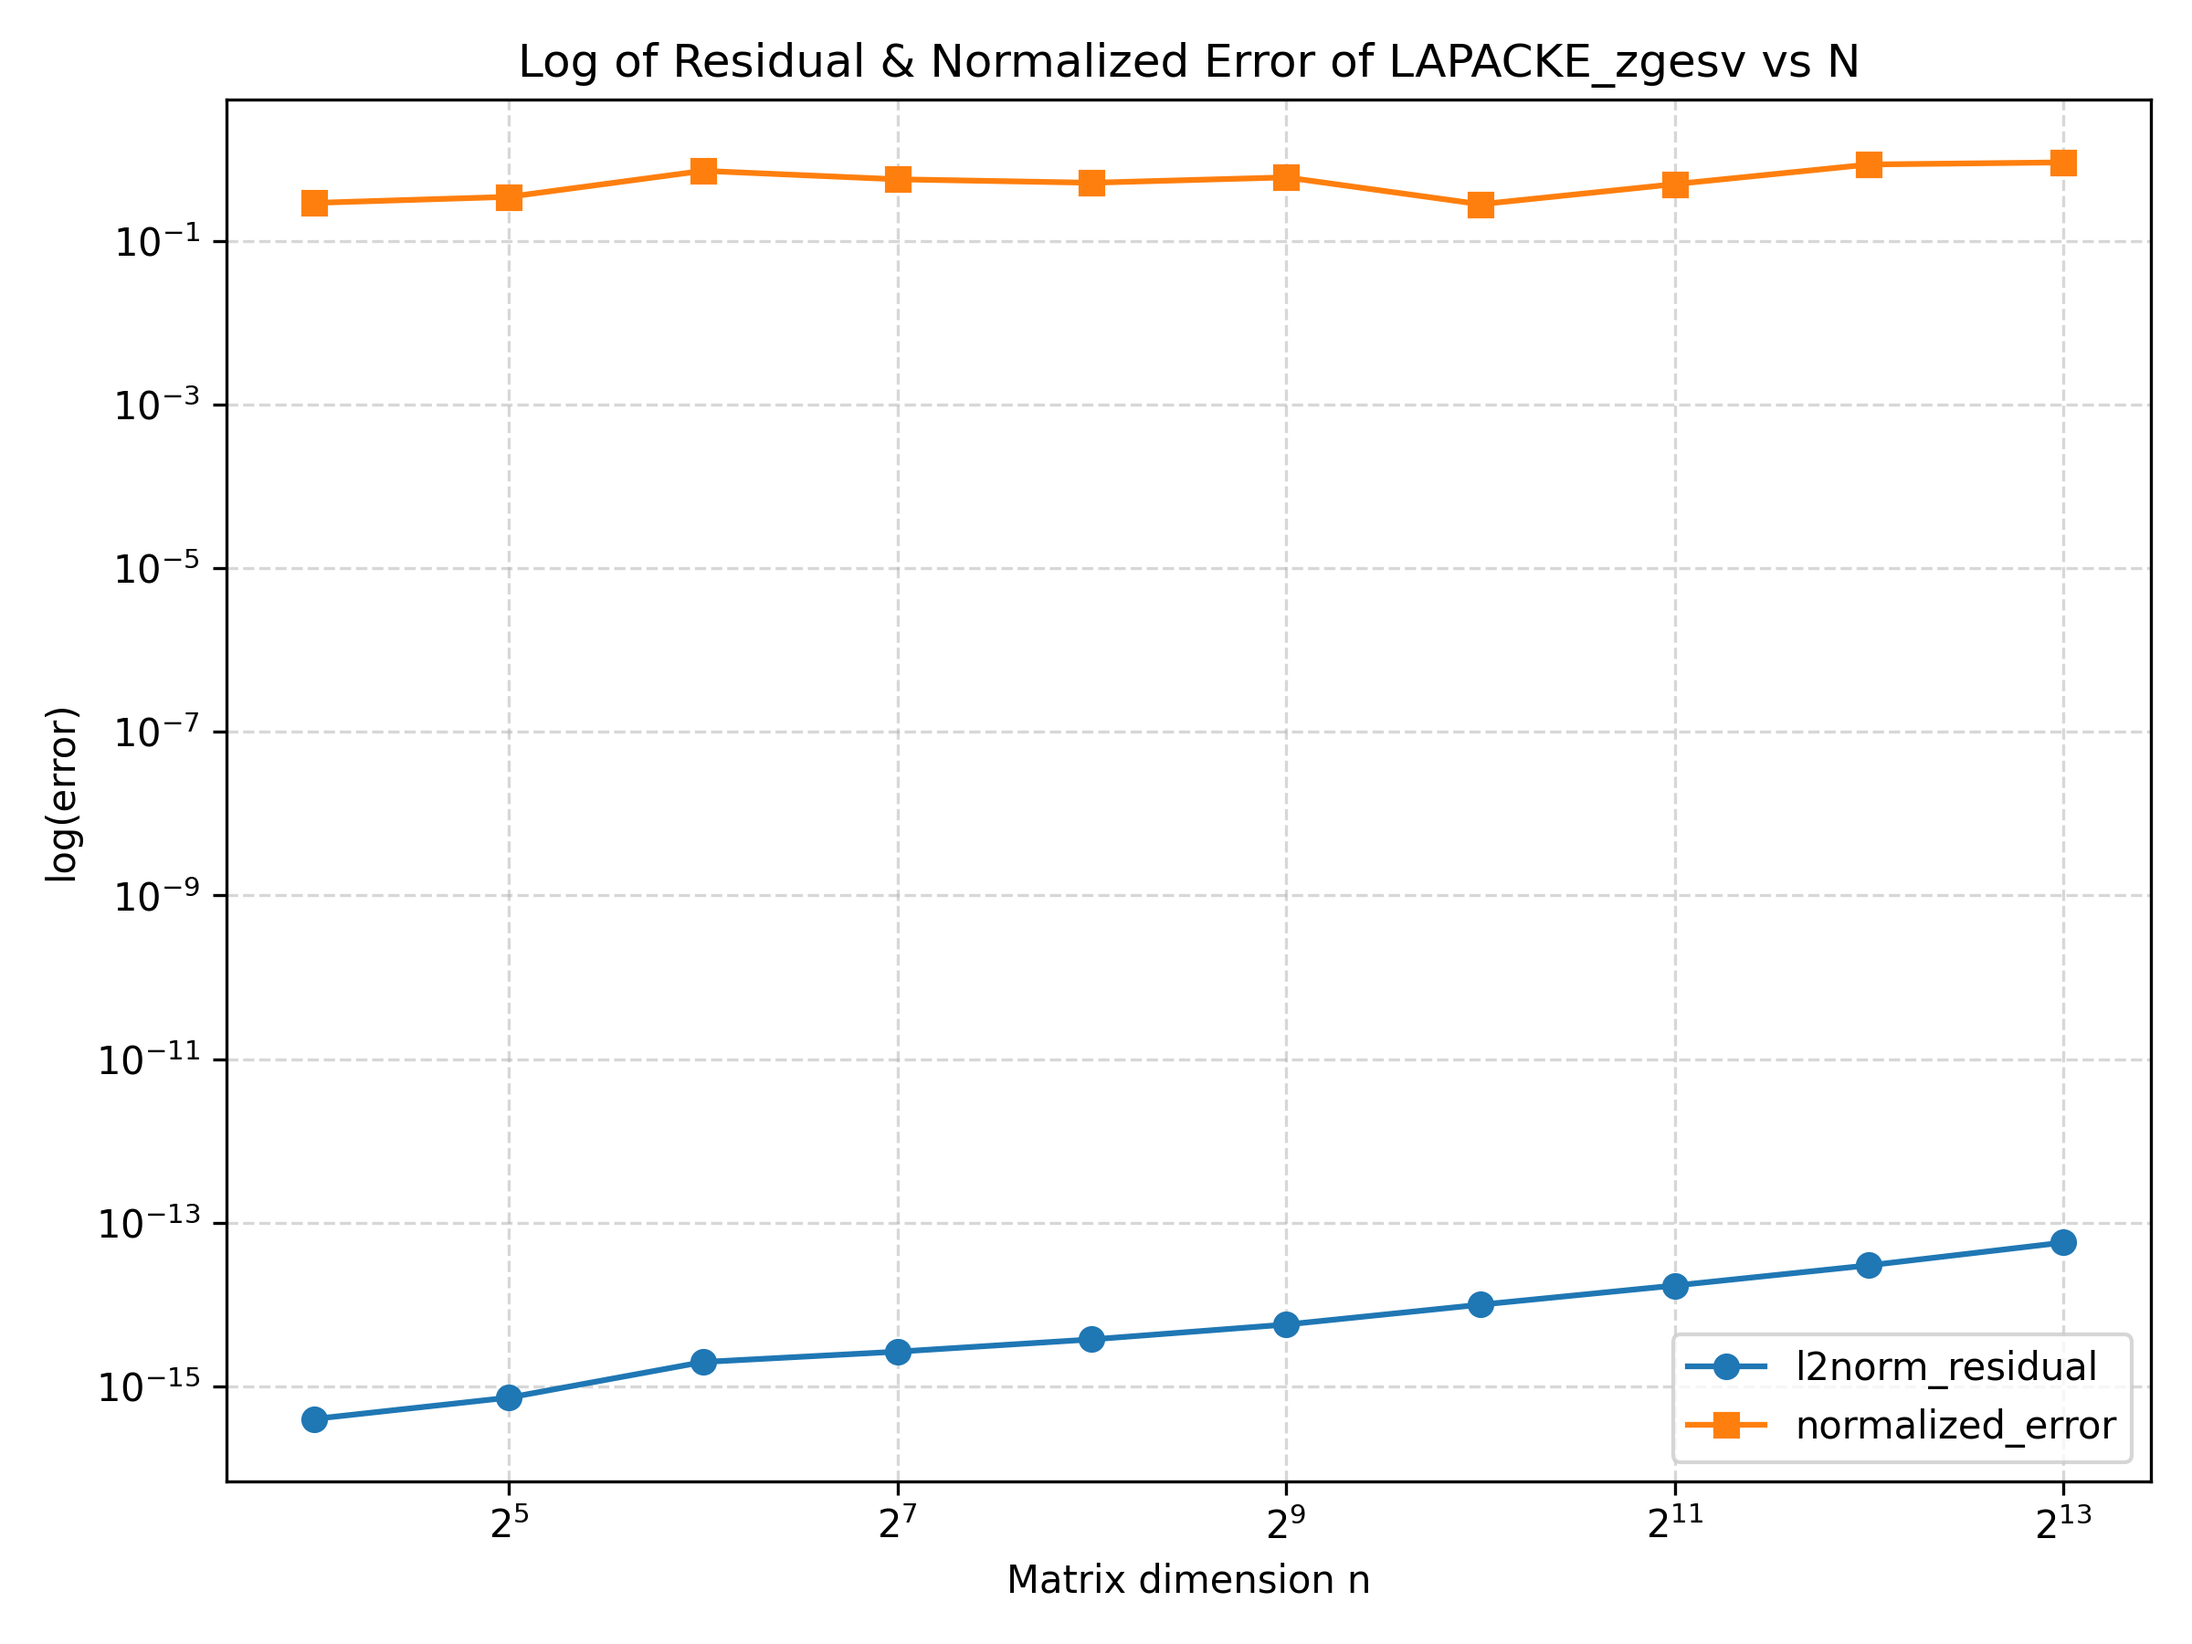
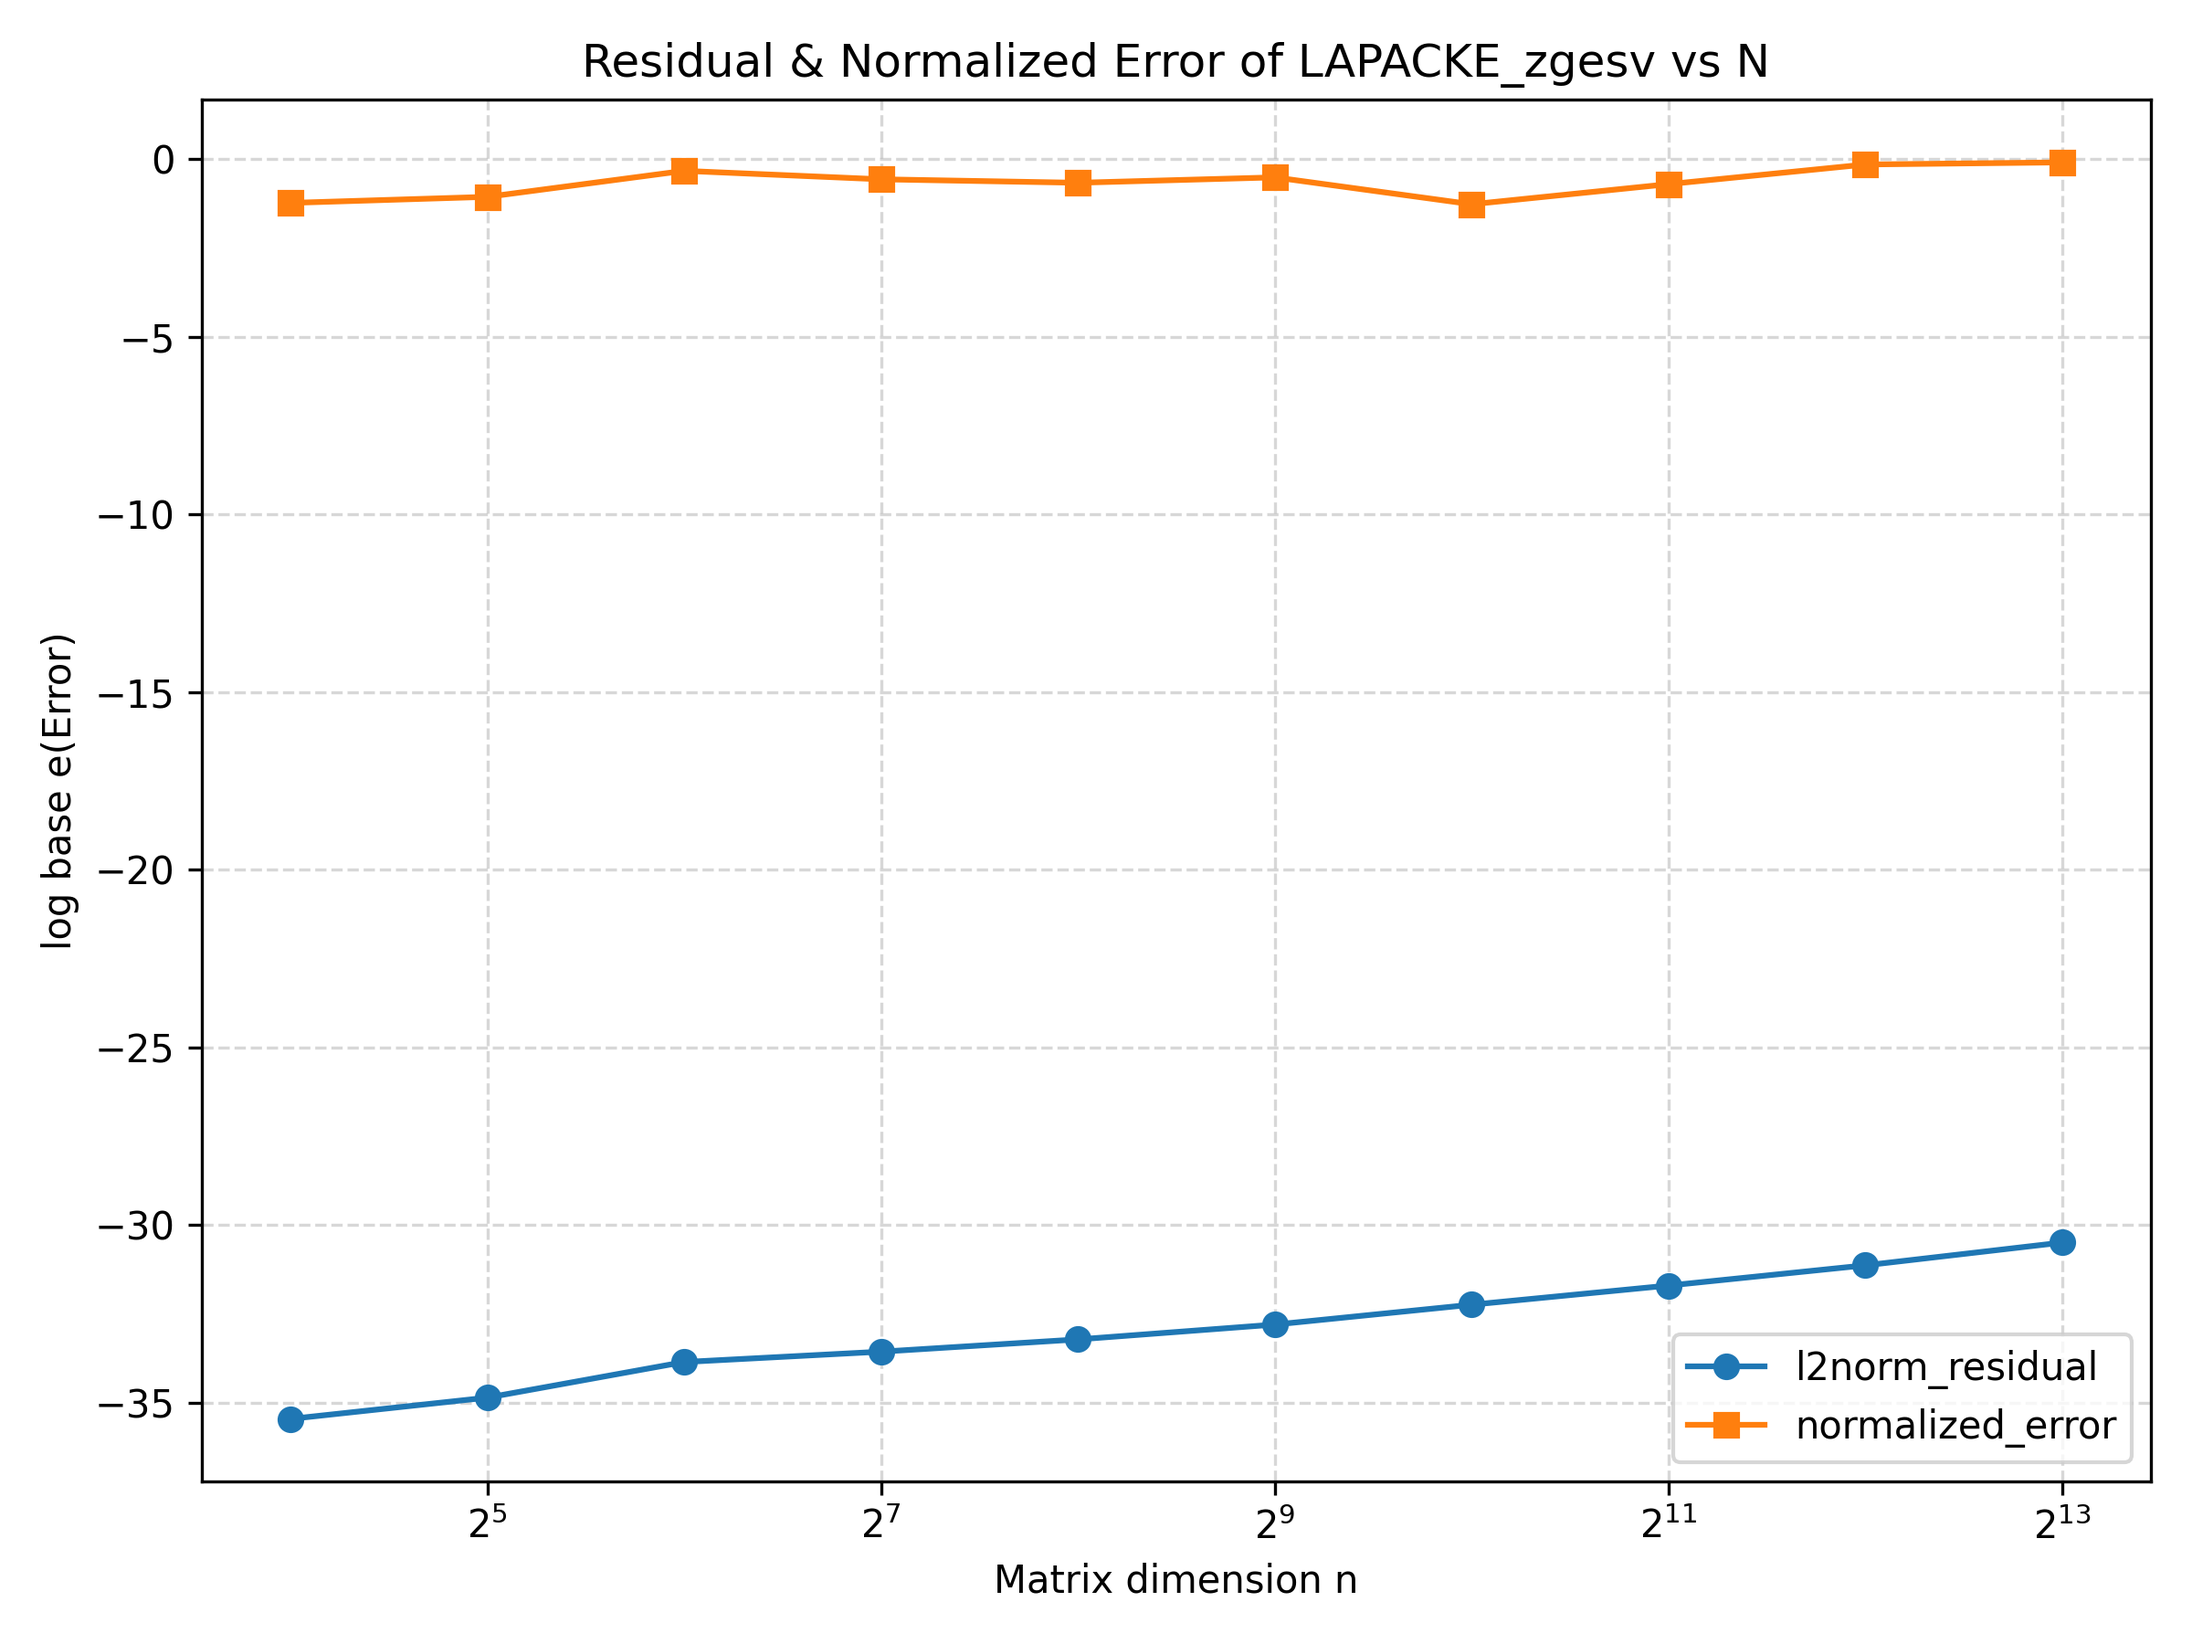
Changed Problem 3 for adjusting to base 10 plot

diff --git a/HW/HW7/Problem 3/p3.cpp b/HW/HW7/Problem 3/p3.cpp
@@ -42,7 +42,7 @@ int main() {
         size_t size = size_t(n) * n;
         size_t bytes = size * sizeof(double);
 
-        std::vector<double> A(size), B(size), C(size, 0.0);
+        std::vector<double> A(size, 1.0), B(size, 1.0), C(size, 0.0);
         for (size_t i = 0; i < size; ++i) {
             A[i] = drand48();
             B[i] = drand48();
@@ -74,17 +74,17 @@ int main() {
         }
         auto t1 = std::chrono::high_resolution_clock::now();
         double elapsed_cpu = std::chrono::duration<double>(t1 - t0).count() / ntrial;
-        double gflops_cpu = (2.0 * double(n)*n*n) / (elapsed_cpu * 1e9);
+        double gflops_cpu = (2.0 * double(n)*n*n + 2.0 * double(n)*n) / (elapsed_cpu * 1e9);
 
         // Allocate GPU memory
-        double *d_A = nullptr, *d_B = nullptr, *d_C = nullptr;
+        double *d_A, *d_B, *d_C;
         CHECK_CUDA(cudaMalloc(&d_A, bytes));
         CHECK_CUDA(cudaMalloc(&d_B, bytes));
         CHECK_CUDA(cudaMalloc(&d_C, bytes));
 
         CHECK_CUDA(cudaMemcpy(d_A, A.data(), bytes, cudaMemcpyHostToDevice));
         CHECK_CUDA(cudaMemcpy(d_B, B.data(), bytes, cudaMemcpyHostToDevice));
-        CHECK_CUDA(cudaMemset(d_C, 0, bytes));
+        CHECK_CUDA(cudaMemcpy(d_C, C.data(), bytes, cudaMemcpyHostToDevice));
 
         cudaEvent_t start, stop;
         CHECK_CUDA(cudaEventCreate(&start));
@@ -103,8 +103,9 @@ int main() {
         ));
 
         // Timed loop
-        CHECK_CUDA(cudaEventRecord(start));
         for (int rep = 0; rep < ntrial; ++rep) {
+            CHECK_CUDA(cudaMemcpy(d_C, C.data(), bytes, cudaMemcpyHostToDevice));
+            CHECK_CUDA(cudaEventRecord(start, 0));
             CHECK_CUBLAS(cublasDgemm(
                 handle,
                 CUBLAS_OP_N, CUBLAS_OP_N,
@@ -115,9 +116,9 @@ int main() {
                 &beta,
                 d_C, n
             ));
+            CHECK_CUDA(cudaEventRecord(stop, 0));
+            CHECK_CUDA(cudaEventSynchronize(stop));
         }
-        CHECK_CUDA(cudaEventRecord(stop));
-        CHECK_CUDA(cudaEventSynchronize(stop));
 
         float ms = 0.0f;
         CHECK_CUDA(cudaEventElapsedTime(&ms, start, stop));

diff --git a/HW/HW7/Problem 2/zgesv_plot.py b/HW/HW7/Problem 2/zgesv_plot.py
@@ -1,6 +1,8 @@
 #!/usr/bin/env python3
 import pandas as pd
 import matplotlib.pyplot as plt
+import numpy as np
+import math
 
 def main():
     # Read the errors CSV generated by the C++ solver
@@ -8,15 +10,15 @@ def main():
 
     # Create plot
     plt.figure(figsize=(8,6))
-    plt.plot(df['n'], df['l2norm_residual'], marker='o', label='l2norm_residual')
-    plt.plot(df['n'], df['normalized_error'], marker='s', label='normalized_error')
+    plt.plot(df['n'], np.log(df['l2norm_residual']), marker='o', label='l2norm_residual')
+    plt.plot(df['n'], np.log(df['normalized_error']), marker='s', label='normalized_error')
 
     # Logarithmic x-axis (base 2) since n doubles each time
     plt.xscale('log', base=2)
-    plt.yscale('log')  # Logarithmic y-axis
+    # plt.yscale('log', base=math.e)  # Logarithmic y-axis
     plt.xlabel('Matrix dimension n')
-    plt.ylabel('log(error)')
-    plt.title('Log of Residual & Normalized Error of LAPACKE_zgesv vs N')
+    plt.ylabel('log base e(Error)')
+    plt.title('Residual & Normalized Error of LAPACKE_zgesv vs N')
     plt.grid(which='both', linestyle='--', alpha=0.5)
     plt.legend()
     plt.tight_layout()

diff --git a/HW/HW7/Problem 3/plot_gemm_perf.py b/HW/HW7/Problem 3/plot_gemm_perf.py
@@ -1,5 +1,6 @@
 import pandas as pd
 import matplotlib.pyplot as plt
+import numpy as np
 
 # Load the CSV file
 df = pd.read_csv("gflops_vs_n.csv")
@@ -14,12 +15,12 @@ plt.figure(figsize=(10, 6))
 plt.plot(n, openblas, 'o-', label="OpenBLAS (CPU)")
 plt.plot(n, cublas, 's--', label="cuBLAS (GPU)")
 
-# Log-log axes
+# Log x-axis and y-axis
 plt.xscale('log', base=2)
 plt.yscale('log')
 plt.xticks(n, rotation=45)
 plt.xlabel("Matrix size n (log₂ scale)")
-plt.ylabel("GFLOP/s (log scale)")
+plt.ylabel("GFLOPS")
 plt.title("GEMM Performance Comparison: OpenBLAS vs cuBLAS (Double Precision)")
 plt.grid(True, which='both', linestyle='--', alpha=0.6)
 plt.legend()
